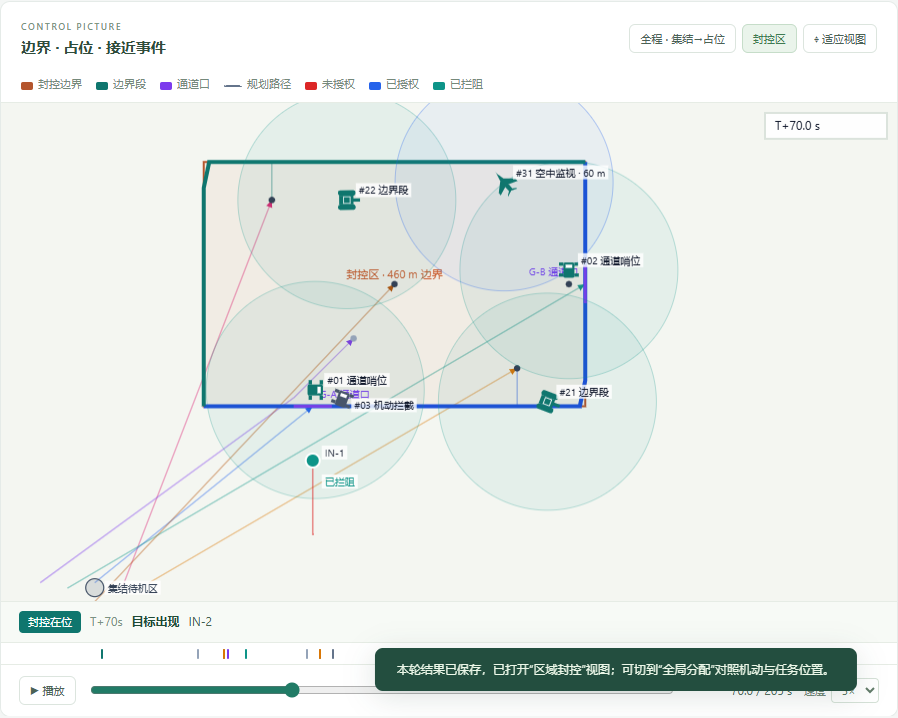
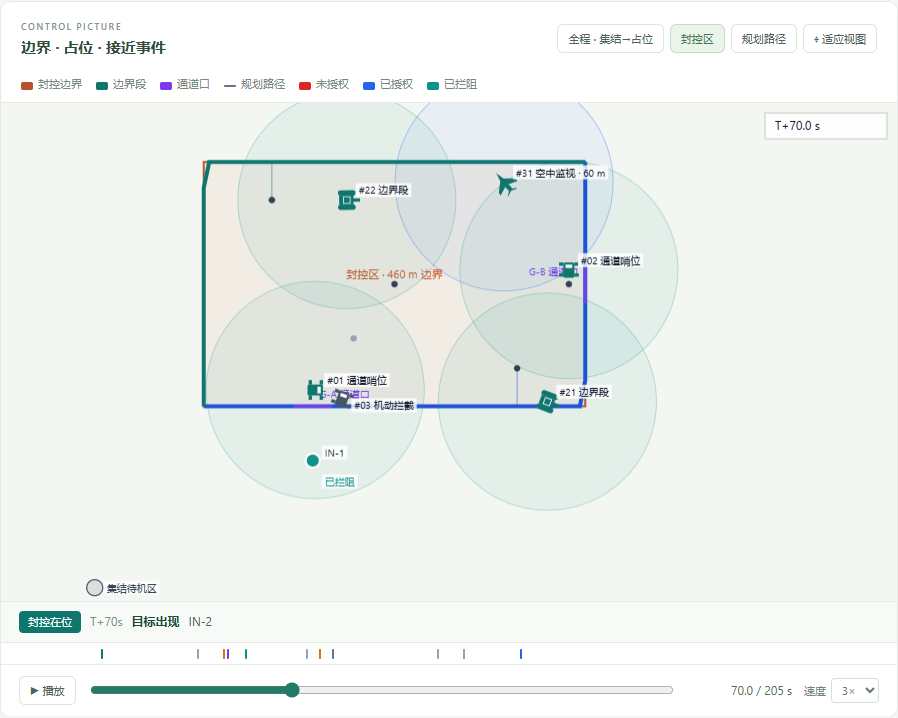
fix(workbench): hide planned routes and long trails by default in containment view

diff --git a/planning_middle_demo/workbench/containment.js b/planning_middle_demo/workbench/containment.js
@@ -13,7 +13,7 @@
   const C = {
     data: null, jobId: null, t: 0, playing: false, speed: 3,
     raf: null, last: 0, built: false, bounds: null,
-    cam: 'all', visible: false,
+    cam: 'all', visible: false, showRoutes: false,
   };
   const COLORS = {
     area: '#b4552d', sector: '#0f766e', gate: '#7c3aed',
@@ -80,6 +80,7 @@
     C.autoPlayed = false;
     C.cam = 'all';
     C.camAuto = true;
+    C.showRoutes = false;
     C.t = 0;
     C.bounds = null;
     if (!C.data) { renderEmpty(run); return; }
@@ -259,13 +260,13 @@
           '<div class="ck-map-actions">' +
             '<button class="button small' + (C.cam === 'all' ? ' active' : '') + '" id="ck-cam-all">全程 · 集结→占位</button>' +
             '<button class="button small' + (C.cam === 'area' ? ' active' : '') + '" id="ck-cam-area">封控区</button>' +
+            '<button class="button small' + (C.showRoutes ? ' active' : '') + '" id="ck-routes" title="只影响显示，不改变回放数据">规划路径</button>' +
             '<button class="button small" id="ck-fit">⌖ 适应视图</button>' +
           '</div></div>' +
           '<div class="ck-legend" id="ck-legend">' +
             '<span><i style="background:' + COLORS.area + '"></i>封控边界</span>' +
             '<span><i style="background:' + COLORS.sector + '"></i>边界段</span>' +
             '<span><i style="background:' + COLORS.gate + '"></i>通道口</span>' +
-            '<span><i style="background:#64748b;height:2px"></i>规划路径</span>' +
             '<span><i style="background:' + COLORS.unauthorized + '"></i>未授权</span>' +
             '<span><i style="background:' + COLORS.passed + '"></i>已授权</span>' +
             '<span><i style="background:' + COLORS.held + '"></i>已拦阻</span>' +
@@ -317,6 +318,12 @@
     const camAll = el('#ck-cam-all'), camArea = el('#ck-cam-area');
     if (camAll) camAll.addEventListener('click', () => setCam('all'));
     if (camArea) camArea.addEventListener('click', () => setCam('area'));
+    const routesBtn = el('#ck-routes');
+    if (routesBtn) routesBtn.addEventListener('click', () => {
+      C.showRoutes = !C.showRoutes;
+      routesBtn.classList.toggle('active', C.showRoutes);
+      draw();
+    });
     buildRibbon();
     updateTicker();
     const timeline = el('#ck-timeline');
@@ -616,46 +623,45 @@
       if (close) ctx.closePath();
     };
 
-    // 规划路径（4.2 计划里的 A* 航迹）与集结点：先画，压在所有要素下面
-    const routes = planAssignments();
-    if (routes.length) {
-      for (const route of routes) {
+    // 集结点始终画；规划路径默认关闭——一屏几条从集结地穿到占位点的长线
+    // 会把封控区压住，只有想看"规划器怎么走的"时才点开。
+    const start = assemblyPoints();
+    if (start.length) {
+      const cx = start.reduce((s, p) => s + p[0], 0) / start.length;
+      const cy = start.reduce((s, p) => s + p[1], 0) / start.length;
+      const c = P([cx, cy]);
+      ctx.beginPath();
+      ctx.arc(c[0], c[1], 8, 0, Math.PI * 2);
+      ctx.fillStyle = 'rgba(71,85,105,0.14)';
+      ctx.fill();
+      ctx.strokeStyle = '#475569';
+      ctx.lineWidth = 1.2;
+      ctx.stroke();
+      ctx.fillStyle = '#334155';
+      ctx.font = '11px "Segoe UI","Microsoft YaHei"';
+      placeLabel('集结待机区', c[0] + 11, c[1] + 4, '#334155');
+    }
+    if (C.showRoutes) {
+      for (const route of planAssignments()) {
         const path = route.path || [];
         if (path.length < 2) continue;
         const w = workerOf(route);
         const color = (w && w.color) || '#64748b';
         poly(path, false);
         ctx.strokeStyle = color;
-        ctx.globalAlpha = 0.4;
+        ctx.globalAlpha = 0.5;
         ctx.lineWidth = 1.4;
         ctx.stroke();
         ctx.globalAlpha = 1;
-        // 终点箭头：标清"规划去哪个占位点"
         const a = P(path[path.length - 2]), b = P(path[path.length - 1]);
         const ang = Math.atan2(b[1] - a[1], b[0] - a[0]);
         ctx.fillStyle = color;
         ctx.beginPath();
         ctx.moveTo(b[0], b[1]);
-        ctx.lineTo(b[0] - 8 * Math.cos(ang - 0.4), b[1] - 8 * Math.sin(ang - 0.4));
-        ctx.lineTo(b[0] - 8 * Math.cos(ang + 0.4), b[1] - 8 * Math.sin(ang + 0.4));
+        ctx.lineTo(b[0] - 7 * Math.cos(ang - 0.4), b[1] - 7 * Math.sin(ang - 0.4));
+        ctx.lineTo(b[0] - 7 * Math.cos(ang + 0.4), b[1] - 7 * Math.sin(ang + 0.4));
         ctx.closePath();
         ctx.fill();
-      }
-      const start = assemblyPoints();
-      if (start.length) {
-        const cx = start.reduce((s, p) => s + p[0], 0) / start.length;
-        const cy = start.reduce((s, p) => s + p[1], 0) / start.length;
-        const c = P([cx, cy]);
-        ctx.beginPath();
-        ctx.arc(c[0], c[1], 9, 0, Math.PI * 2);
-        ctx.fillStyle = 'rgba(71,85,105,0.16)';
-        ctx.fill();
-        ctx.strokeStyle = '#475569';
-        ctx.lineWidth = 1.2;
-        ctx.stroke();
-        ctx.fillStyle = '#334155';
-        ctx.font = '11px "Segoe UI","Microsoft YaHei"';
-        placeLabel('集结待机区', c[0] + 12, c[1] + 4, '#334155');
       }
     }
 
@@ -741,14 +747,15 @@
       ctx.fill();
     });
 
-    // 目标轨迹与当前位姿（不画虚线，也不从起点到目标拉长线，避免整屏斜线）
+    // 目标轨迹与当前位姿：只留最近 12 s 的一小段尾迹，不画长直线
     const events = (C.data.events || []);
     for (const tgt of (result().targets || [])) {
       const track = (tgt.track || []).filter((p) => p[0] <= t);
-      if (track.length > 1) {
-        poly(track.map((p) => [p[1], p[2]]), false);
+      const tail = track.filter((p) => p[0] >= t - 12);
+      if (tail.length > 1) {
+        poly(tail.map((p) => [p[1], p[2]]), false);
         ctx.strokeStyle = tgt.authorized ? COLORS.passed : COLORS.unauthorized;
-        ctx.globalAlpha = 0.5;
+        ctx.globalAlpha = 0.45;
         ctx.lineWidth = 1.6;
         ctx.stroke();
         ctx.globalAlpha = 1;

diff --git a/planning_middle_demo/workbench/app.js b/planning_middle_demo/workbench/app.js
@@ -669,7 +669,7 @@ function draw(){
       const track=(tgt.track||[]).filter(x=>x[0]<=state.t);
       if(!track.length)continue;
       const last=track[track.length-1],pos=[last[1],last[2]];
-      if(track.length>2)line(track.filter(x=>x[0]>=state.t-30).map(x=>[x[1],x[2]]),tgt.authorized?'#2563eb99':'#dc262699',1.6);
+      if(track.length>2)line(track.filter(x=>x[0]>=state.t-10).map(x=>[x[1],x[2]]),tgt.authorized?'#2563eb99':'#dc262699',1.6);
       const stateNow=ckTargetState(tgt,ckEvents,state.t);
       if(stateNow==='待出现')continue;
       const color=CK_STATE_COLOR[stateNow]||'#94a3b8';

diff --git a/outputs/区域封控_20261031/README.md b/outputs/区域封控_20261031/README.md
@@ -23,9 +23,10 @@
 - **在岗巡视**：占位组沿自己负责的边界段来回巡视（限速 2 m/s），门哨在通道口
   横向游走，机动组在待机点小圈待机。
 - **工作台**：“演示总览”顶部两个页签（全局分配 / 区域封控，同一时间轴）。
-  两个视角都已去掉虚线：封控区实线边框、探测圈细实线、规划路径细实线，
-  “全局分配”按“封控区 + 集结地”取景并对目标标当前状态、画拦阻连线；
-  区域封控页签保留完整控制画面（指标、目标闭合、时间线）。
+  两个视角都没有虚线、默认也不拉长线：封控区实线边框、探测圈细实线；
+  规划路径默认**关闭**（点“规划路径”才显示，用于核对规划器怎么走）；
+  目标只留最近 12 s 尾迹。“全局分配”按“封控区 + 集结地”取景并对目标标
+  当前状态、画拦阻连线；区域封控页签保留完整控制画面（指标、目标闭合、时间线）。
 - **新建演示**：场景按“融合版（区域封控 / 五类任务 / 机动突击）+ 历史场景”分组，
   默认选中**区域封控演示**。
 
@@ -63,8 +64,9 @@ python -m interop.cli demo `
 
 - [总览 · 全局分配页签（T+54 s 拦阻中）](总览_全局分配页签.png)
 - [总览 · 区域封控页签（T+70 s，已去虚线）](总览_区域封控页签.png)
-- [区域封控 · 机动途中（T+9 s，规划路径/探测圈均为实线）](区域封控_机动途中.png)
+- [区域封控 · 机动途中（T+9 s，默认不画规划线与长尾迹）](区域封控_机动途中.png)
 - [区域封控 · 封控在位（T+70 s）](区域封控_封控在位.png)
+- [区域封控 · 打开“规划路径”后的样子（按需查看）](区域封控_规划路径开关.png)
 - [总览 · 封控区近景（T+120 s）](总览_封控区近景.png)
 - [没有封控记录时的说明条](总览_缺封控数据说明.png)
 

diff --git a/docs/区域封控任务_20261031.md b/docs/区域封控任务_20261031.md
@@ -30,8 +30,10 @@ python -m interop.cli demo `
 
 “演示总览”顶部有两个页签：**全局分配** 与 **区域封控**（同一轮运行、同一时间轴，
 切换时时刻互相同步）。只含一个封控作业的运行默认打开“区域封控”页签；两个页签
-都不用虚线：封控区实线边框、**每台平台的探测半径细实线圆**、规划路径细实线，
-控制建立后区域压实显示。也可 `/?page=containment&source=<run_id>` 直达。
+都不用虚线：封控区实线边框、**每台平台的探测半径细实线圆**，控制建立后区域压实
+显示。**规划路径默认不画**（页签里的“规划路径”按钮可随时打开，用于核对规划器
+从集结地到各占位点怎么走），目标只保留最近 12 s 尾迹，避免开局几条长线压住画面。
+也可 `/?page=containment&source=<run_id>` 直达。
 
 ## 1.1 场景链路（集结 → 规划 → 到位 → 封控）
 
